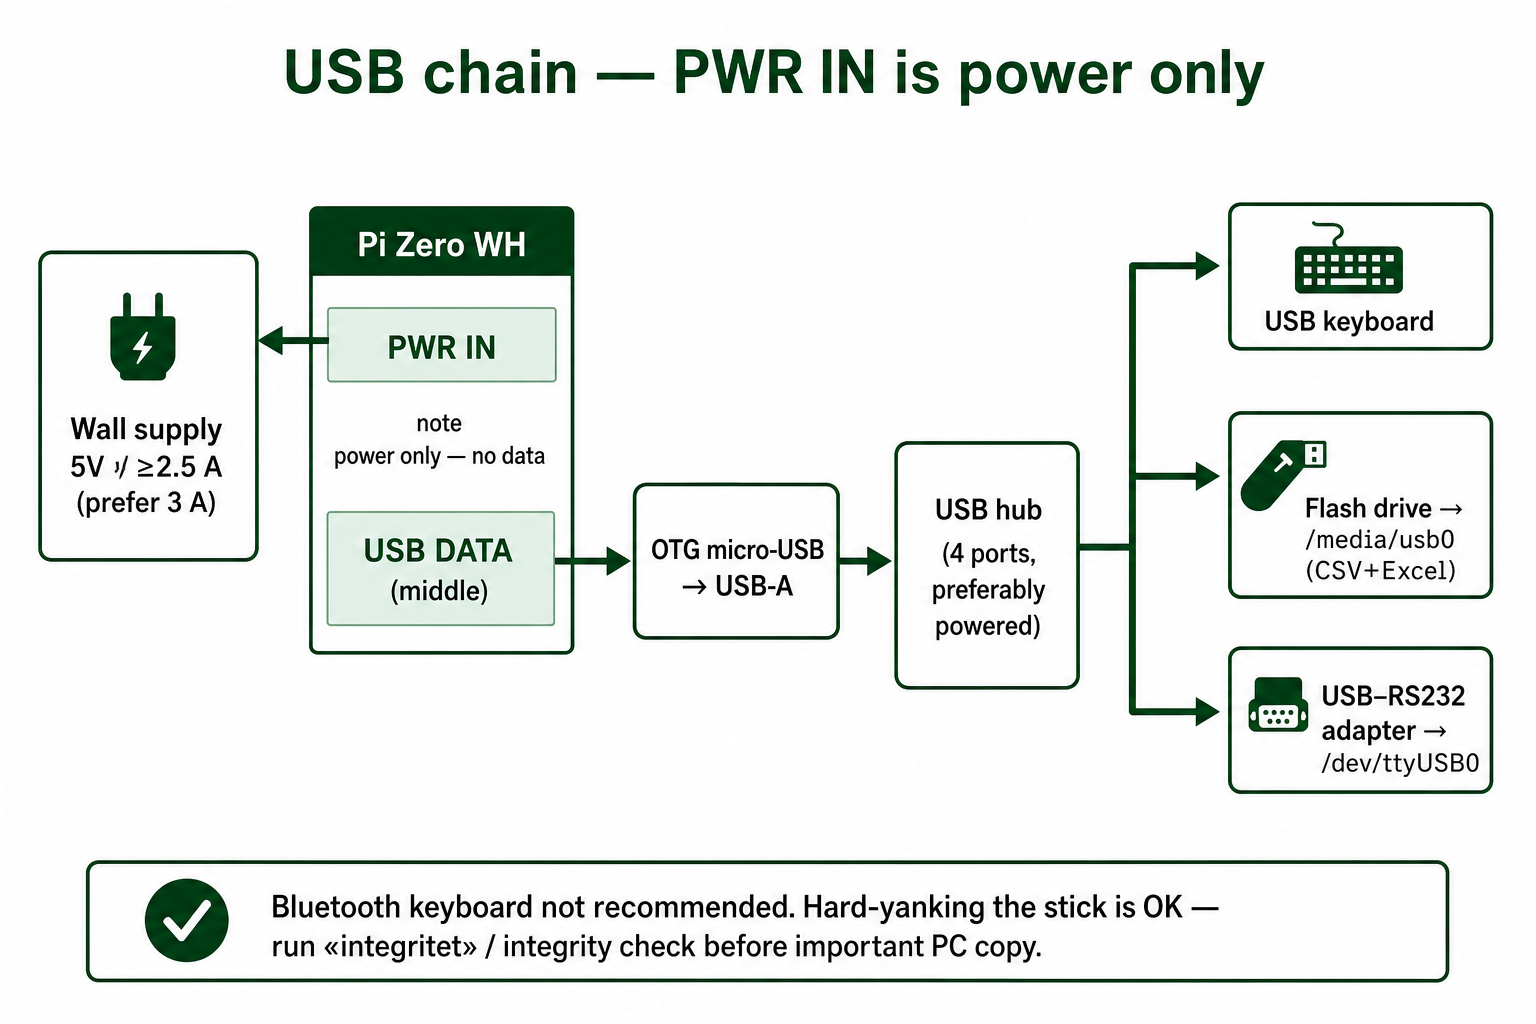
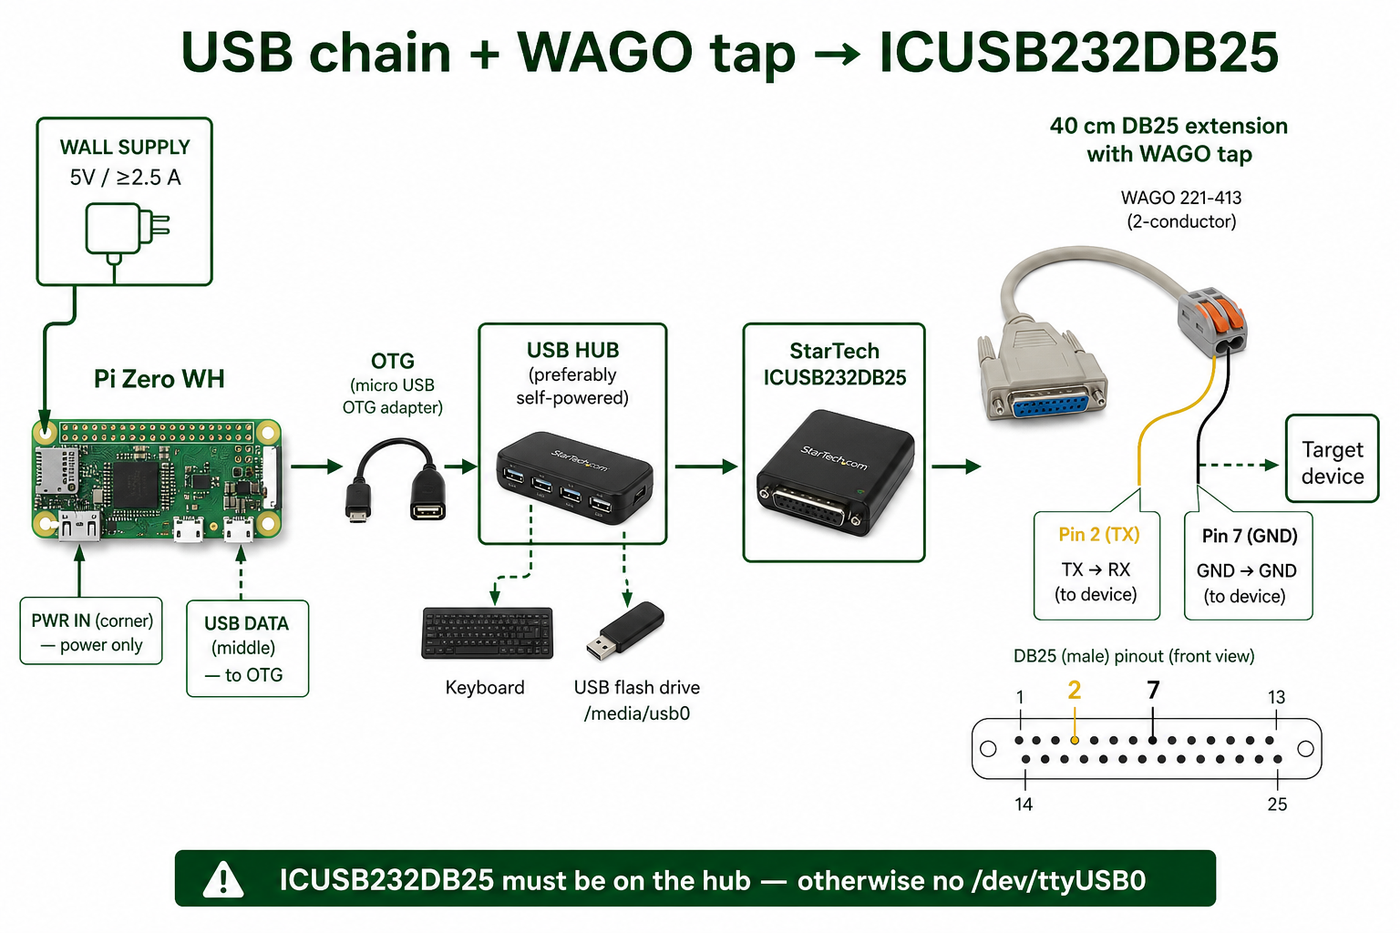
USB-diagram med WAGO-tapp → ICUSB232DB25
Tegner hele kjeden: skjøt/WAGO → StarTech-adapter → hub → Pi.
Forklarer hvorfor adapteren er der. Bildene ligger på PR-branchen
(ikke main før merge).

Changed region(s): [[0.0, 0.1243, 1.0, 0.9946], [0.1229, 0.0311, 0.9214, 0.0932]]

diff --git a/README.en.md b/README.en.md
@@ -136,8 +136,8 @@ Full parts list in the [installation guide](docs/en/INSTALLATION.md).
 <p style="font-size: 15px; margin-bottom: 0.4em"><b>1 · Passive tap</b> — slit the jacket; cut <b>only</b> pin 2 (TX) and pin 7 (GND) conductors. Not the whole cable. WAGO, TX→RX. Not GPIO.</p>
 <img src="docs/en/img/passive-rs232-tap.png" width="100%" alt="Passive RS-232 tap"/>
 
-<p style="font-size: 15px; margin-bottom: 0.4em"><b>2 · USB chain</b> — PWR IN = power (≥2.5 A). Data port → OTG → hub → keyboard, stick, adapter.</p>
-<img src="docs/en/img/usb-chain-complete.png" width="100%" alt="USB chain"/>
+<p style="font-size: 15px; margin-bottom: 0.4em"><b>2 · USB chain</b> — WAGO tap → <b>ICUSB232DB25</b> → hub (with keyboard + stick). PWR IN = power (≥2.5 A); data port → OTG → hub.</p>
+<img src="docs/en/img/usb-chain-complete.png" width="100%" alt="USB chain with WAGO and ICUSB232DB25"/>
 
 <p style="font-size: 15px; margin-bottom: 0.4em"><b>3 · OLED (optional)</b> — 0.96" SSD1306 I2C, four wires. Rotates day/year, last package, sort mix.</p>
 <img src="docs/en/img/oled-i2c-correct.png" width="72%" alt="OLED I2C"/>

diff --git a/README.md b/README.md
@@ -164,8 +164,8 @@ Full delerliste i <a href="docs/no/INSTALLATION.md">installasjonsguiden</a>.
 <p style="font-size: 15px; margin-bottom: 0.4em"><b>1 · Passiv tapp</b> — åpne kappen, klipp <b>kun</b> leder pin 2 (TX) og 7 (GND). Ikke hele kabelen. WAGO, TX→RX. Ikke GPIO.</p>
 <img src="docs/no/img/passiv-rs232-tapp.png" width="100%" alt="Passiv RS-232-tapp"/>
 
-<p style="font-size: 15px; margin-bottom: 0.4em"><b>2 · USB-kjede</b> — PWR IN = strøm (≥2,5 A). Data-port → OTG → hub → tastatur, penn, adapter.</p>
-<img src="docs/no/img/usb-kjede-komplett.png" width="100%" alt="USB-kjede"/>
+<p style="font-size: 15px; margin-bottom: 0.4em"><b>2 · USB-kjede</b> — WAGO-tapp → <b>ICUSB232DB25</b> → hub (med tastatur + penn). PWR IN = strøm (≥2,5 A); data-port → OTG → hub.</p>
+<img src="docs/no/img/usb-kjede-komplett.png" width="100%" alt="USB-kjede med WAGO og ICUSB232DB25"/>
 
 <p style="font-size: 15px; margin-bottom: 0.4em"><b>3 · OLED (valgfritt)</b> — 0,96" SSD1306 I2C, fire ledninger. Roterer dag/år, siste pakke, sort.</p>
 <img src="docs/no/img/oled-i2c-korrekt.png" width="72%" alt="OLED I2C"/>

diff --git a/docs/en/INSTALLATION.md b/docs/en/INSTALLATION.md
@@ -103,7 +103,7 @@ Step by step:
 
 ### USB chain
 
-<img src="img/usb-chain-complete.png" width="100%" alt="USB chain with keyboard, stick, and adapter"/>
+<img src="img/usb-chain-complete.png" width="100%" alt="USB chain: WAGO tap → ICUSB232DB25 → hub"/>
 
 The OTG adapter **must** go in the middle **data** port on the Pi Zero — the corner port is power-only (**PWR IN**, ≥2.5 A wall supply).
 

diff --git a/docs/no/INSTALLATION.md b/docs/no/INSTALLATION.md
@@ -141,7 +141,7 @@ Steg for steg:
 
 ### USB-kjede
 
-<img src="img/usb-kjede-komplett.png" width="100%" alt="USB-kjede med tastatur, penn og adapter"/>
+<img src="img/usb-kjede-komplett.png" width="100%" alt="USB-kjede: WAGO-tapp → ICUSB232DB25 → hub"/>
 
 OTG-adapteren **må** i **data**-porten midt på Pi Zero — hjørneporten er kun strøm (**PWR IN**).
 
